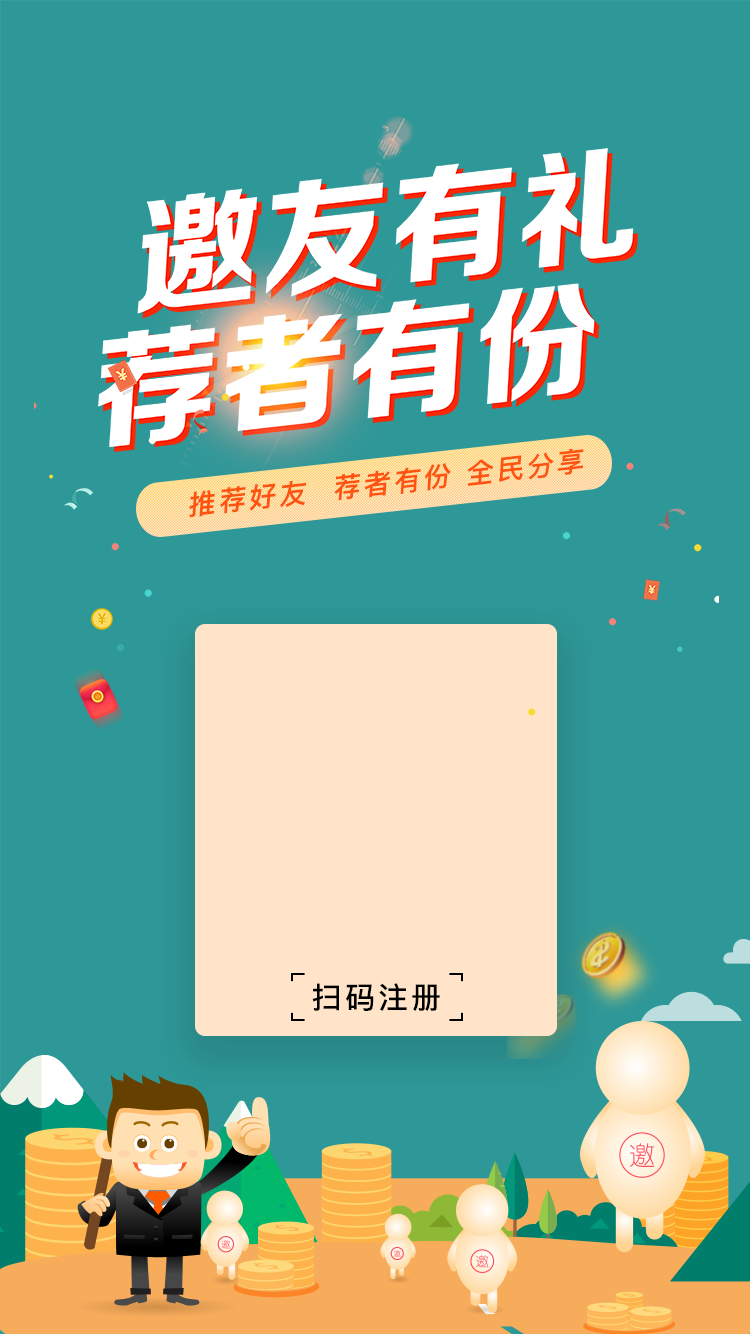
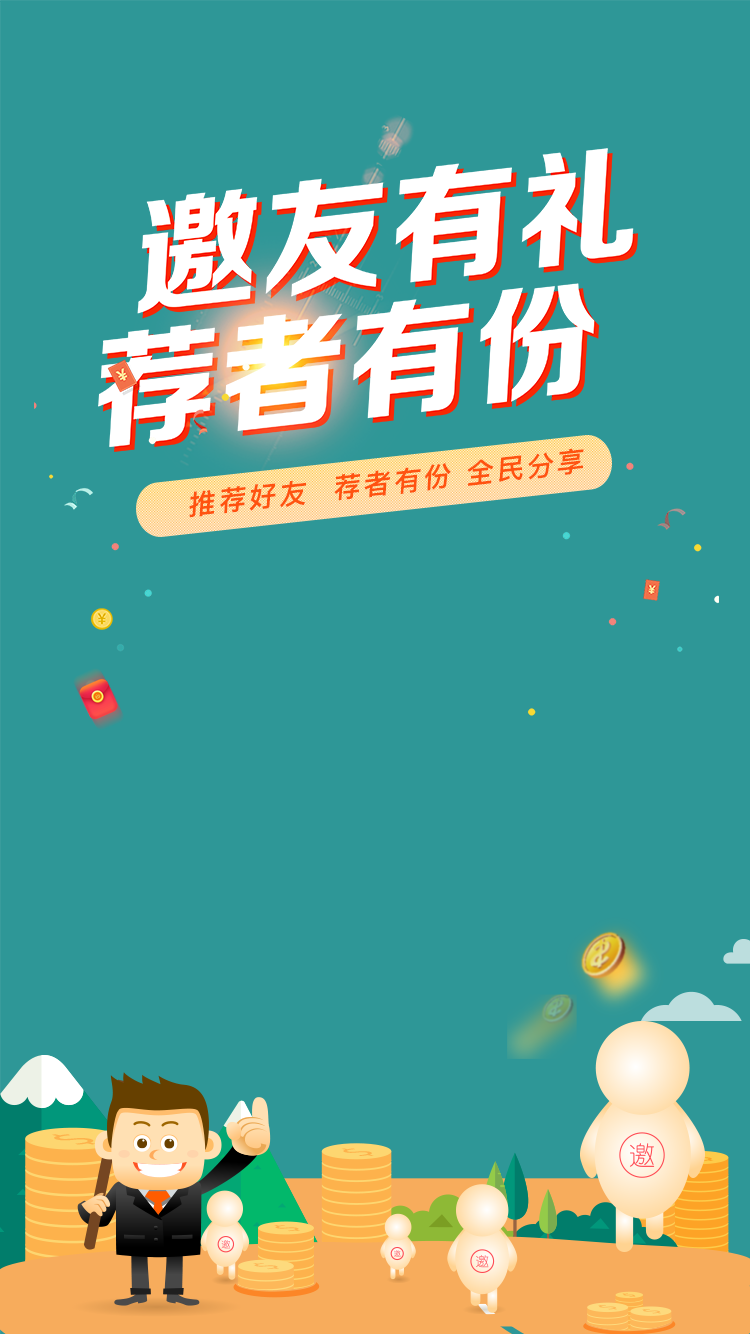
Merge branch 'master' of https://github.com/guoling1/baibang
# Conflicts:
#	.idea/workspace.xml

Changed region(s): [[0.2453, 0.461, 0.7667, 0.7991], [0.8893, 0.8913, 1.0, 0.9835]]

diff --git a/share/css/registForm.css b/share/css/registForm.css
@@ -9,33 +9,21 @@ html,body{
     background: url("../images/sharefrom.png") no-repeat;
     background-size: 100% 100%;
 }
-.container .top{
+.content{
     position: absolute;
-    /*left: 1.46rem;*/
-    left: 19.46%;
-    /*top: 3.28rem;*/
-    top: 24.59%;
-    width: 4.6rem;
-    /*height: 6.9rem;*/
-    /*height: 51.72%;*/
-}
-.container .bottom{
-    position: absolute;
-    /*left: 1.46rem;*/
-    left: 19.46%;
-    /*top: 3.28rem;*/
-    top: 62.22%;
-    width: 4.6rem;
-    /*height: 6.9rem;*/
-}
-.container form div{
-
+    top: 15.14%;
+    left: 15%;
+    padding: 0.45rem 5% 0.45rem;
+    width: 60%;
+    background: url("../images/frombg.png") no-repeat;
+    background-size: 100% 100%;
+    text-align: center;
 }
 .container  input{
-    /*margin-bottom: 0.42rem;*/
-    margin-bottom: 10.15%;
-    padding-left: 0.8rem;
-    width: 3.8rem;
+    display: inline-block;
+    margin-bottom: 0.42rem;
+    padding-left: 10%;
+    width: 90%;
     height: 0.68rem;
     line-height: 0.68rem;
     background: #fff;
@@ -43,11 +31,9 @@ html,body{
 }
 .container  .vcode{
     position: relative;
-    margin-bottom: 7.87%;
 }
 .container  .vcode input{
-    /*margin-bottom: 1.05rem;*/
-margin-bottom: 20%;
+    margin-bottom: 0.65rem;
 }
 .container  .vcode span{
     position: absolute;
@@ -55,7 +41,7 @@ margin-bottom: 20%;
     right: 0;
     width: 1.6rem;
     height: 0.68rem;
-    line-height: 0.68rem;
+    line-height: 0.65rem;
     background: #ff6624;
     color: #fff;
     text-align: center;

diff --git a/share/registForm.html b/share/registForm.html
@@ -10,27 +10,26 @@
 </head>
 <body>
 <div class="container">
-    <div class="top">
-        <div>
-            <input type="text" placeholder="请输入用户名">
-        </div>
-        <div>
-            <input type="password" placeholder="请输入密码">
-        </div>
-        <div>
-            <input type="text" placeholder="请输入手机号">
-        </div>
-        <div class="vcode">
-            <input type="text" placeholder="请输入验证码">
-            <span>获取验证码</span>
-        </div>
-    </div>
-    <div class="bottom">
-        <div>
-            <input type="text" placeholder="填写邀请人手机号（选填）">
-        </div>
-        <button>确认提交</button>
-    </div>
+    <from class="content">
+            <div>
+                <input type="text" placeholder="请输入用户名">
+            </div>
+            <div>
+                <input type="password" placeholder="请输入密码">
+            </div>
+            <div>
+                <input type="text" placeholder="请输入手机号">
+            </div>
+            <div class="vcode">
+                <input type="text" placeholder="请输入验证码">
+                <span>获取验证码</span>
+            </div>
+            <div>
+                <input type="text" placeholder="填写邀请人手机号（选填）">
+            </div>
+            <button>确认提交</button>
+    </from>
+
 </div>
 <script src="js/rem.js"></script>
 </body>

diff --git a/share/css/appLoad.css b/share/css/appLoad.css
@@ -9,15 +9,22 @@ html,body{
     background: url("../images/shareload.png") no-repeat;
     background-size: 100% 100%;
 }
-.container img{
+.content{
     position: absolute;
-    left: 1.73rem;
-    /*top: 6.8rem;*/
-    top: 50.97%;
-    width: 4.2rem;
-    height: 0.87rem;
+    top: 45.5%;
+    left: 15%;
+    padding: 0 10%;
+    width: 50%;
+    height: 3.83rem;
+    background: #ffe4c9;
+    border-radius: 0.2rem;
+}
+.content img{
+    margin-top: 0.75rem;
+    margin-bottom: 0.55rem;
+    width: 100%;
+    height: auto;
 }
 .container img:nth-child(2){
-    /*top: 8.2rem;*/
-    top: 61.62%;
+    margin-top: 0;
 }

diff --git a/share/css/shareCode.css b/share/css/shareCode.css
@@ -9,10 +9,20 @@ html,body{
     background: url("../images/sharecode.png") no-repeat;
     background-size: 100% 100%;
 }
-.container img{
+.content{
     position: absolute;
-    left: 2.32rem;
-    top: 6.58rem;
-    width: 2.91rem;
-    height: 2.91rem;
+    top: 47.78%;
+    left: 25%;
+    padding: 0.35rem 7% 0.15rem;
+    width: 36%;
+    background: #ffe4c9;
+    border-radius: 0.2rem;
+    text-align: center;
+}
+.content .code{
+    width: 100%;
+}
+.content .bottom{
+    margin-top: 0.34rem;
+    width: 70%;
 }

diff --git a/share/appLoad.html b/share/appLoad.html
@@ -10,8 +10,11 @@
 </head>
 <body>
 <div class="container">
-    <img src="images/iphoneload.png" alt="">
-    <img src="images/androidload.png" alt="">
+    <div class="content">
+        <img src="images/iphoneload.png" alt="">
+        <img src="images/androidload.png" alt="">
+    </div>
+
 </div>
 <script src="js/rem.js"></script>
 </body>

diff --git a/share/shareCode.html b/share/shareCode.html
@@ -10,7 +10,11 @@
 </head>
 <body>
 <div class="container">
-    <img src="images/ercode.png" alt="">
+    <div class="content">
+        <img src="images/ercode.png" alt="" class="code">
+        <img src="images/codereg.png" alt="" class="bottom">
+    </div>
+
 </div>
 <script src="js/rem.js"></script>
 </body>
